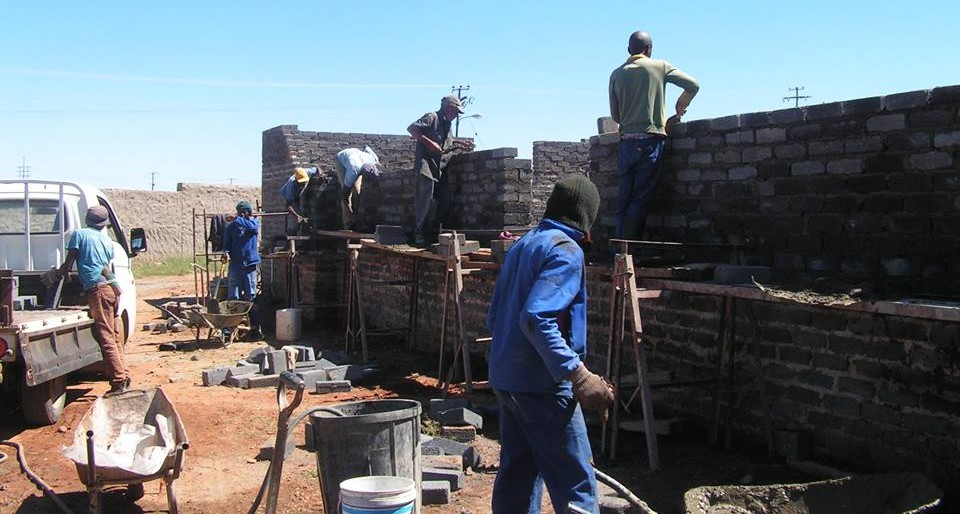
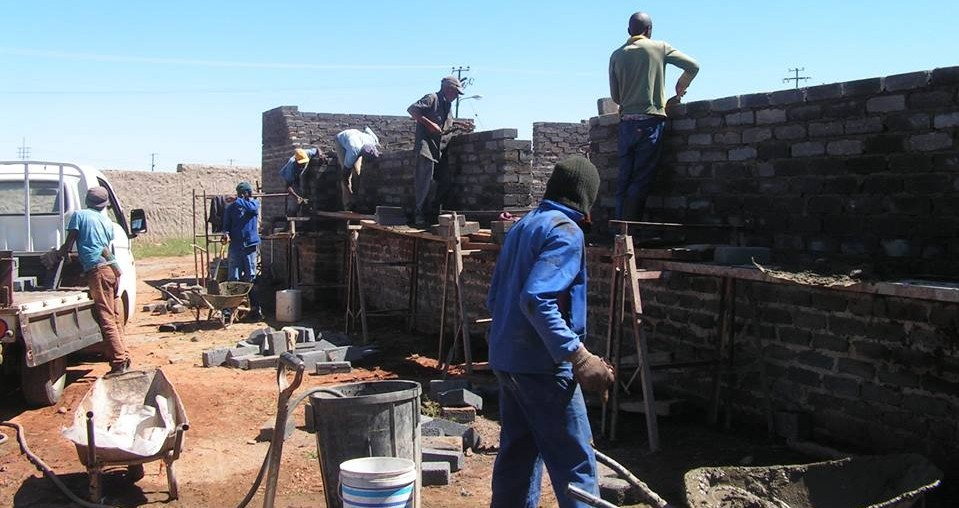
changed the picture sizes

diff --git a/bafpage/indexpt.html b/bafpage/indexpt.html
@@ -91,59 +91,7 @@
 
 </div>
 </div>
-<div id="services" class="container-fluid text-center">
-  <h2>PROGRAMS</h2>
-  <h4>What we offer</h4>
-  <br>
-  <div class="row slideanim">
-    <div class="col-sm-4">
-     <i class="fa fa-calendar" style="font-size:48px;color:#ffcc00"></i>
-      
-      <h4>Monday</h4>
-      <p>Golf</p>
-      
-    </div>
-    <div class="col-sm-4">
-     <i class="fa fa-calendar" style="font-size:48px;color:#ffcc00"></i>
-      <h4>Tuesday</h4>
-            <p>Vogue Models @ 4pm</p>
-            <p>Sing Practice @ 5pm</p>
-    </div>
-    <div class="col-sm-4">
-      <i class="fa fa-calendar" style="font-size:48px;color:#ffcc00"></i>
-      <h4>Wednesday</h4>
-      <p>Theory Lesson @ 5pm</p>
-    </div>
-  </div>
-  <br><br>
-  <div class="row slideanim">
-    <div class="col-sm-4">
-     <i class="fa fa-calendar" style="font-size:48px;color:#ffcc00"></i>
-      <h4>Friday</h4>
-      <p>Dance Practice @ 2pm</p>
-      <p>Beauty Lesson @ 5pm</p>
-    </div>
-    <div class="col-sm-4">
-      <i class="fa fa-calendar" style="font-size:48px;color:#ffcc00"></i>
-      <h4>Saturday</h4>
-      
-      
-      <p>Drums @ 12am</p>
-      <p>Drama @ 2pm</p>
-      <p>Soccer @ 2:30pm</p>
-        <p>Skating @ 3pm</p>
-      <p>Instruments Class @ 4pm</p>
-      <p>Art Class @ 5pm</p>
-     
-    </div>
-    <div class="col-sm-4">
-     <i class="fa fa-calendar" style="font-size:48px;color:#ffcc00"></i>
-      <h4>Extra</h4>
-      <p>Mag Team</p>
-      
-    </div>
-  </div>
-</div>
+
 
 <br>
 

diff --git a/bafpage/myc.html b/bafpage/myc.html
@@ -46,7 +46,7 @@
       </div>
 
       <div class="item">
-        <img src="images/myc505.jpg" alt="Chicago" width="1028" height="500">
+        <img src="images/myc204.jpg" alt="Chicago" width="1028" height="500">
         <div class="carousel-caption">
           <h3>MZANZI YOUTH CENTRE</h3>
           <img src="images/bulldozer_bar.gif" >

diff --git a/bafpage/index.html b/bafpage/index.html
@@ -165,7 +165,7 @@
   </div>
 </div>
 
-<footer class="text-center">
+<footer class="text-center" id="footer">
   <a class="up-arrow" href="#top" data-toggle="tooltip" title="TO TOP">
     <span class="glyphicon glyphicon-chevron-up"></span><br/>Back To Top
   </a>
